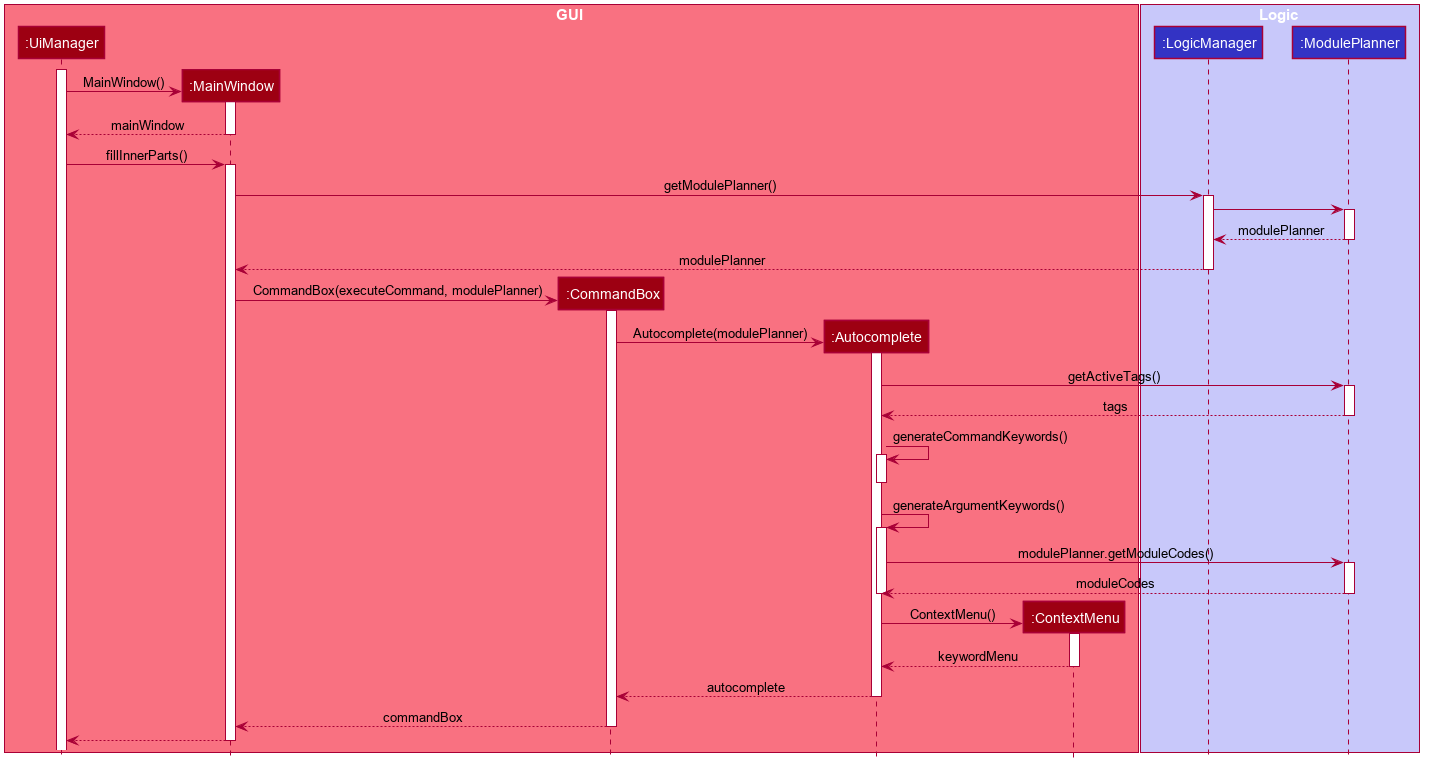
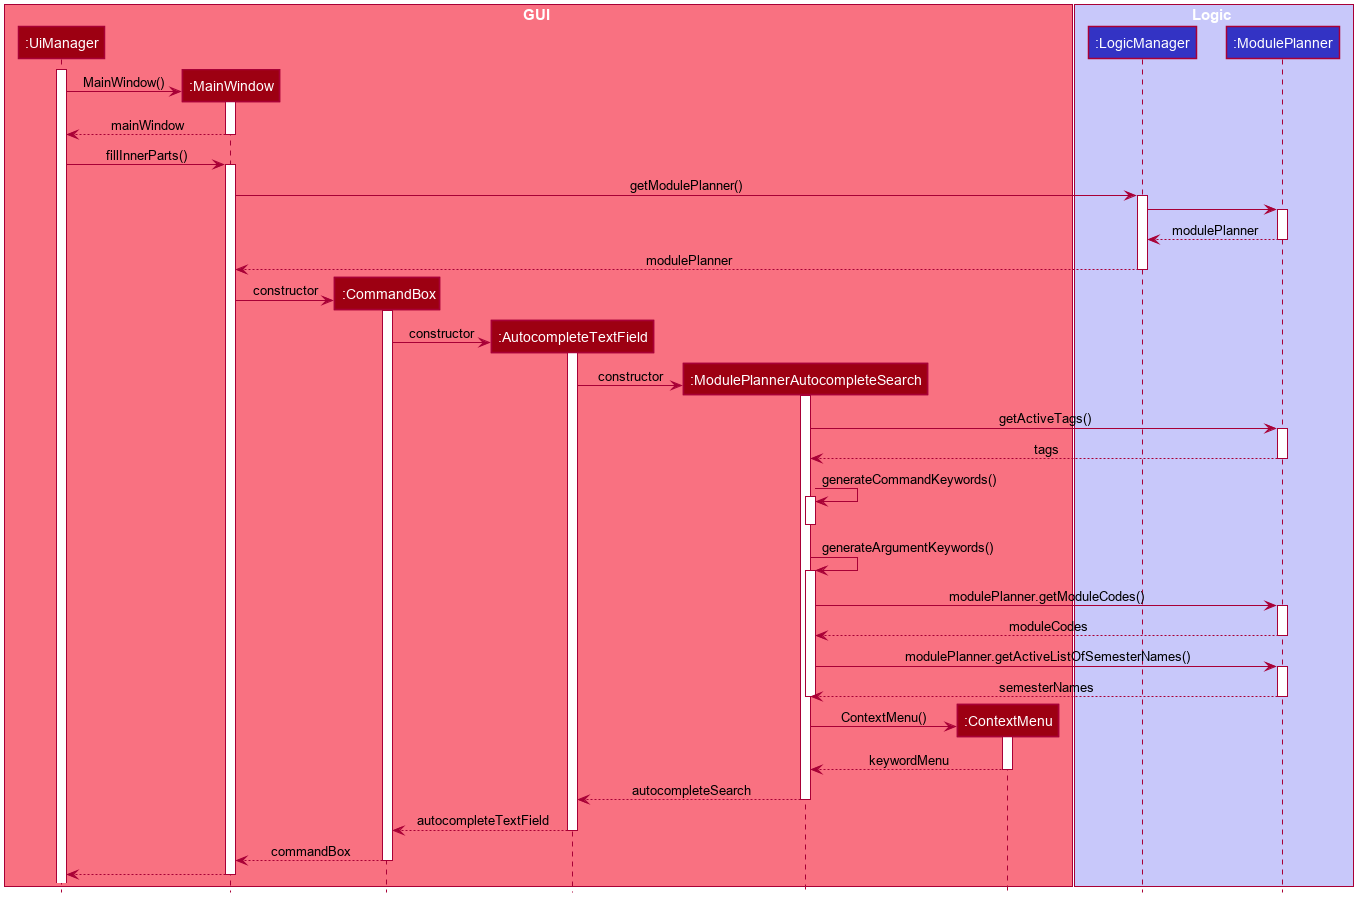
Modifies developer guide for autocomplete

diff --git a/src/main/java/seedu/address/model/ModulePlanner.java b/src/main/java/seedu/address/model/ModulePlanner.java
@@ -133,6 +133,14 @@ public class ModulePlanner implements ReadOnlyModulePlanner {
     }
 
     /**
+     * Returns the current active semester names as Strings.
+     */
+    @Override
+    public List<String> getActiveListOfSemesterNames() {
+        return activeStudyPlan.getListOfSemesterNames();
+    }
+
+    /**
      * Returns the current active tags.
      */
     public UniqueTagList getActiveTags() {

diff --git a/src/main/java/seedu/address/ui/ModulePlannerAutocompleteSearch.java b/src/main/java/seedu/address/ui/ModulePlannerAutocompleteSearch.java
@@ -142,7 +142,7 @@ public class ModulePlannerAutocompleteSearch {
             argumentKeywords.addAll(tags.asListOfStrings());
         }
         argumentKeywords.addAll(modulePlanner.getModuleCodes());
-        argumentKeywords.addAll(modulePlanner.getActiveStudyPlan().getListOfSemesterNames());
+        argumentKeywords.addAll(modulePlanner.getActiveListOfSemesterNames());
     }
 
     /**

diff --git a/src/main/java/seedu/address/model/ReadOnlyModulePlanner.java b/src/main/java/seedu/address/model/ReadOnlyModulePlanner.java
@@ -42,4 +42,6 @@ public interface ReadOnlyModulePlanner {
     UniqueTagList getActiveTags();
 
     List<String> getModuleCodes();
+
+    List<String> getActiveListOfSemesterNames();
 }
